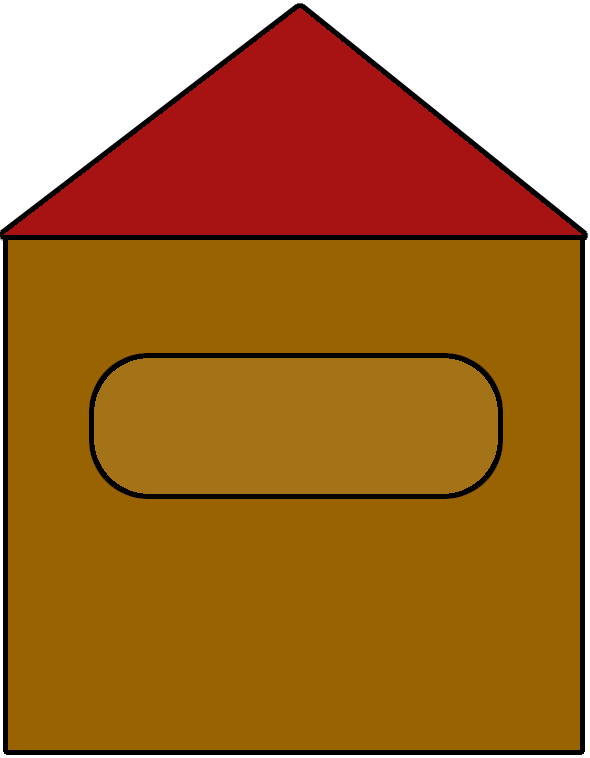
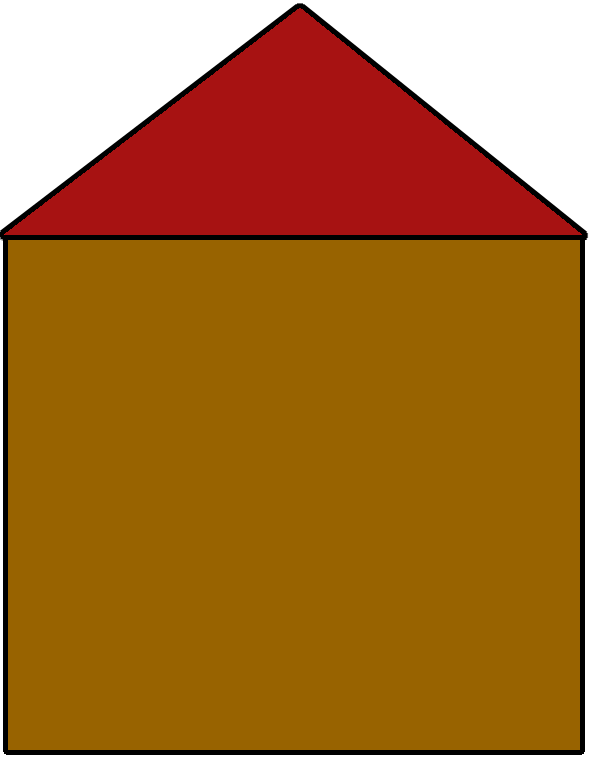
Add shop signs

Changed region(s): [[0.1831, 0.4551, 0.8542, 0.6675], [0.1525, 0.4855, 0.1831, 0.6372]]

diff --git a/FarmerGraphics/SceneHandlers.cs b/FarmerGraphics/SceneHandlers.cs
@@ -338,6 +338,9 @@ namespace FarmerGraphics
             Clickables.Add(SeedShop);
             Clickables.Add(ChickShop);
             Clickables.Add(new SceneSwitchButton(new Bitmap("Assets\\Arrow-shops.png"), new ProportionalRectangle(0.45, 0.56, 0.07, 0.33), FarmerLibrary.View.FullView));
+
+            TopIcons.Add(new BasicTextDisplay("Seed shop", new Bitmap("Assets\\Shop-sign.png"), new ProportionalRectangle(0.11, 0.32, 0.42, 0.55)));
+            TopIcons.Add(new BasicTextDisplay("Chicken shop", new Bitmap("Assets\\Shop-sign.png"), new ProportionalRectangle(0.68, 0.89, 0.42, 0.55)));
         }
     }
 

diff --git a/FarmerGraphics/Graphics.cs b/FarmerGraphics/Graphics.cs
@@ -200,7 +200,7 @@ namespace FarmerGraphics
 // deal with text displays (amounts)
 // saving
 // challenges
-// housekeeping (TODOs)
+// housekeeping (TODOs, menu display)
 // Testing chicken
 // Docs
 // Presentation
